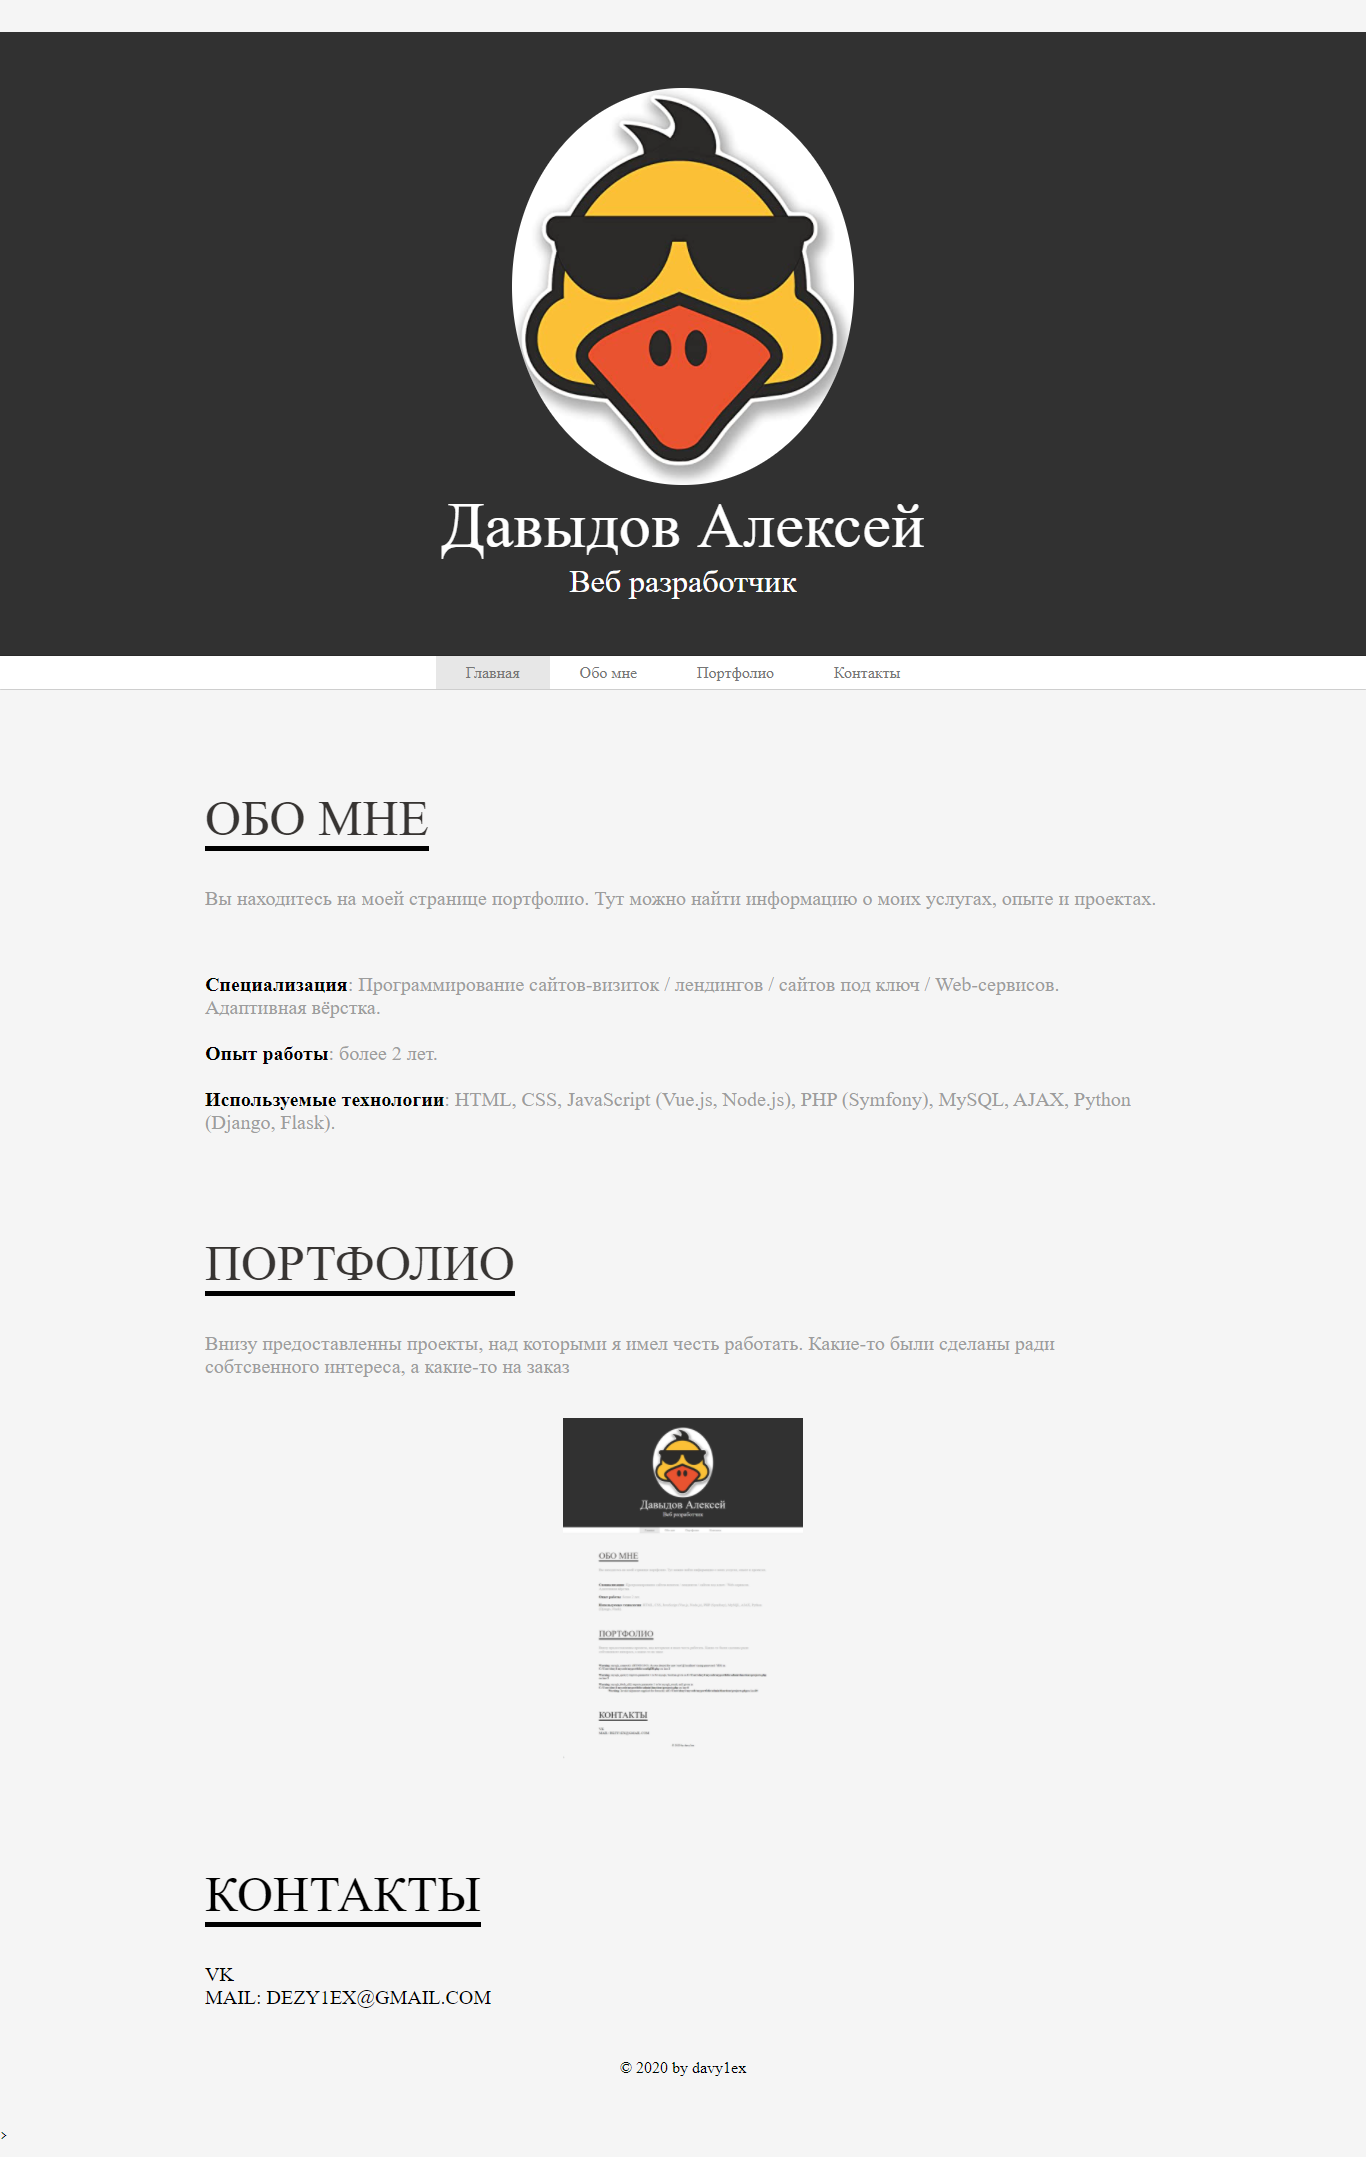
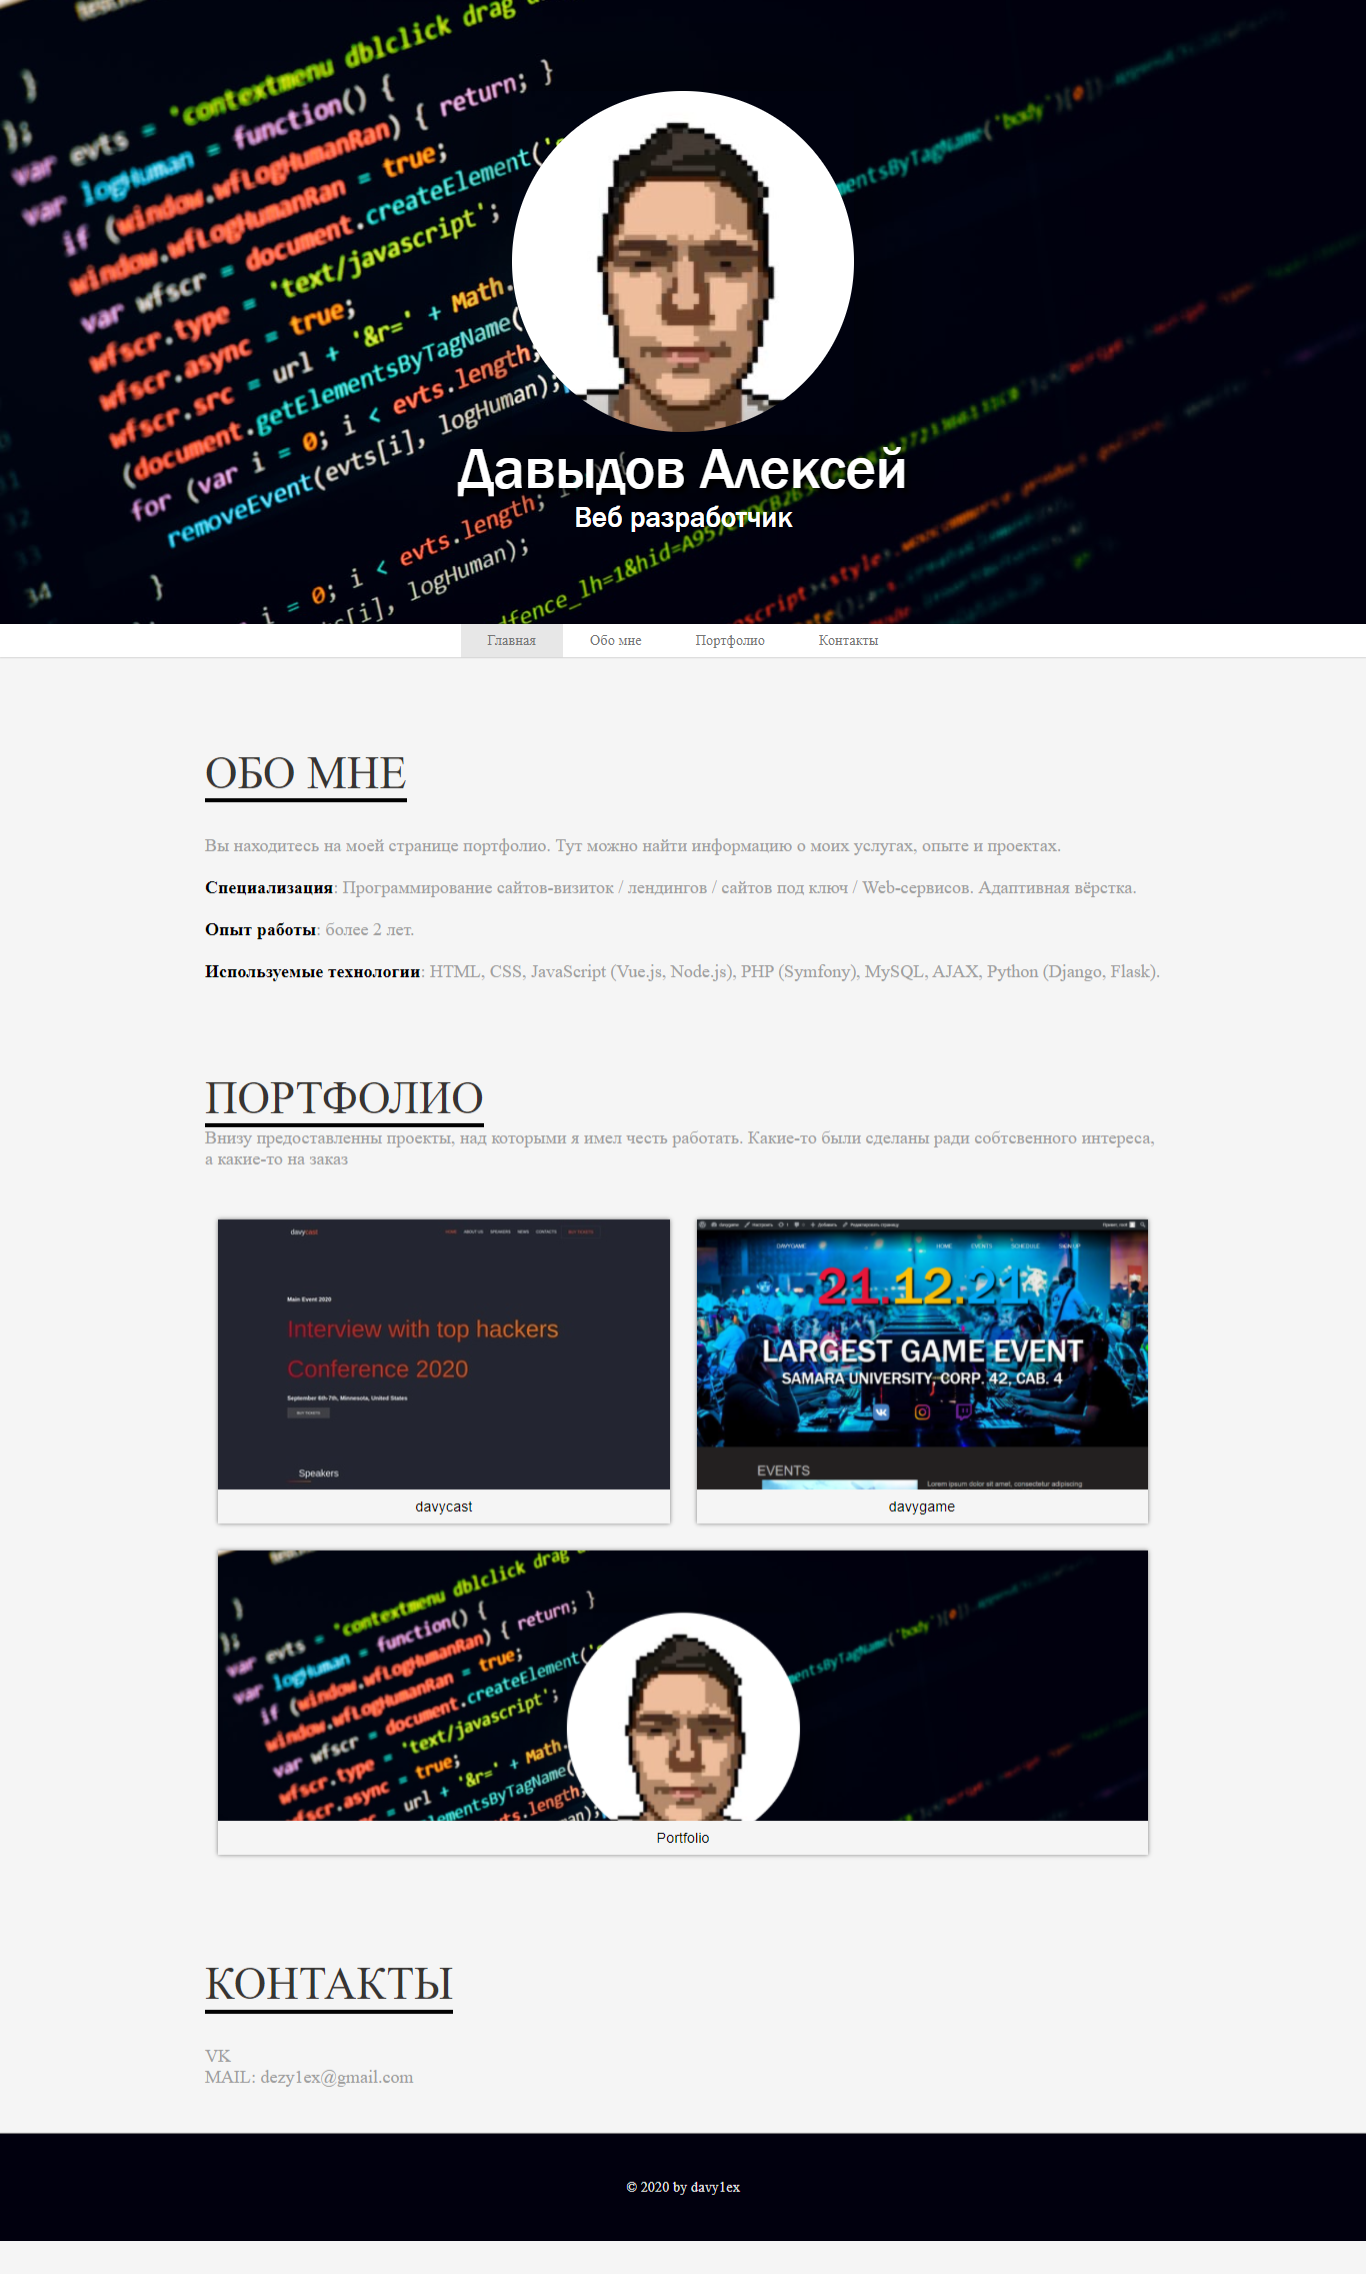
added new point

diff --git a/style.css b/style.css
@@ -29,13 +29,22 @@ body {
     height: 100vh;
 } */
 
-.mynameis {
+.mynameis { 
     height: 95vh;
-    background: #313131;
+    /* background: #313131; */
+
+    font-family: 'Franklin Gothic Medium', 'Arial Narrow', Arial, sans-serif;
+
+    background-repeat: no-repeat;
+    background-position: center;
+    background-size: cover;
+
     display: flex;
     justify-content: center;
     align-items: center;
     color: white;
+
+    margin-top: 0 !important;
 }
 
 .mynameis_wrapper {
@@ -47,12 +56,18 @@ body {
     flex-direction: column;
 }
 
+.avatar {
+    box-shadow: 0 0 100px rgba(0,0,0,0.5);
+}
+
 .avatar img {
     width: 25vw;
     border-radius: 100%;
 }
 
 .myname {
+    text-shadow: 5px 5px 5px black, 0 0 1em black;
+
     font-size: 4em;
     text-align: center;
 }
@@ -119,7 +134,7 @@ header a, header a:visited, header a:active {
 /* HEADER */
 
 
-.desc {
+.container {
     width: 70%;
     margin: auto;
     padding-top: 100px;
@@ -151,9 +166,10 @@ header a, header a:visited, header a:active {
 /* PROJECTS_CELL */
 .projects {
     display: flex;
-    flex-wrap: wrap;
-    justify-content: center;
-    align-items: center;
+    flex-flow: row wrap;
+    /* justify-content: flex-start; */
+    align-items: flex-start;
+    align-content: space-around;
     width: 100%;
 }
 
@@ -162,17 +178,49 @@ header a, header a:visited, header a:active {
 }
 
 .project {
-    width: 25%;
+    /* flex-basis: 30% ; */
+    /* box-sizing: border-box; */
+    
+
+    display: flex;
+    flex-direction: column;
+    margin: 15px;
+    flex-basis: 30%;
+    flex: 4 4 40%;
+    order: 3;
+    /* align-self: baseline; */
+    /* height: 400px; */
+
+    /* border: 1px solid lavender; */
+    box-shadow: 0 0 5px rgba(0,0,0,0.5);
 }
 
-.project img {
+.project .image_preview {
+    background-repeat: no-repeat;
+    background-position: top;
+    background-size: cover;
+
     width: 100%;
+    min-height: 300px;
+    max-height: 100%;
+    /* padding-bottom: 20px; */
+    /* height: 350px; */
+}
+
+.project-title {
+    font-family: 'Noto Sans JP', sans-serif;
+    padding: 10px 0;
+    text-align: center;
 }
 
 /* PROJECTS_CELL */
 
 
 footer {
+    background-color: #01000e;
+    border-top: 1px solid gray;
+    margin-top: 50px;
+    color: #E7E7E7;
     text-align: center;
     padding: 50px 0;
 }

diff --git a/index.php b/index.php
@@ -1,51 +1,82 @@
-<?php get_header();?>
+<?php get_header(); ?>
 
-<? $pages = get_pages(); 
-foreach ($pages as $page_data) {
-    $content = apply_filters('the_content', $page_data->post_content); 
-    $title = $page_data->post_title; 
-    echo 
-    '<div class="container content desc">' . 
-        '<div class="title">' .
-            '<span class="line">' . $title . '</span>' .
-        '</div>' .
-        '<div class="text">' . 
-            $content . 
-        '</div>' .
-    '</div>';
-} ?>
+<? //$pages = get_pages(); 
+// foreach ($pages as $page_data) {
+    // $content = apply_filters('the_content', $page_data->post_content); 
+    // $title = $page_data->post_title; 
+    // echo 
+    // '<div class="container content desc">' . 
+        // '<div class="title">' .
+            // '<span class="line">' . $title . '</span>' .
+        // '</div>' .
+        // '<div class="text">' . 
+            // $content . 
+        // '</div>' .
+    // '</div>';
+//} ?>
 
-
-<!-- <a name="about_me">
+<a name="about_me">
     <div class="container content desc">
         <div class="title">
             <span class="line">Обо мне</span>
         </div>
 
         <div class="text">
-            Вы находитесь на моей странице портфолио. Тут можно найти информацию о моих услугах, опыте и проектах.
-        </div>
-
-        <div class="text">
-            <br><strong>Специализация</strong>: Программирование сайтов-визиток / лендингов / сайтов под ключ / Web-сервисов. Адаптивная вёрстка. <br> <br>
-            <strong>Опыт работы</strong>: более 2 лет. <br> <br>
-            <strong>Используемые технологии</strong>: HTML, CSS, JavaScript (Vue.js, Node.js), PHP (Symfony), MySQL, AJAX, Python (Django, Flask).
+            <?php the_field('about_me') ?>
         </div>
     </div>
-</a> -->
+</a>
 
 
 
-<!-- <a name="contacts">
+<a name="portfolio">
+        <div class="container content portfolio desc">
+
+                <div class="title">
+                    <span class="line">Портфолио</span>
+                </div>
+
+                <div class="text">
+                    Внизу предоставленны проекты, над которыми я имел честь работать. Какие-то были сделаны ради собтсвенного интереса, а какие-то на заказ
+                </div>
+                <div class="projects">
+                    <?
+                    $params = array(
+                        'limit' => -1 
+                        // 'page' => , 
+                        
+                    );
+                    $mypod = pods( 'portfolio', $params );
+
+                    // Loop through the records returned
+                    while ( $mypod->fetch() ) {
+                        echo                         
+                            '<div class="project"> 
+                                <div class="image_preview" style="background-image: url(' . $mypod->display( 'preview_image' ) . ')"> </div>' .
+                                '<div class="project-title">' . $mypod->display( 'project_title' ) . '</div>
+                            </div>'
+                            
+                        ;
+                    }
+                    ?>
+                </div>
+
+                    
+
+        </div>
+    </a>
+
+
+
+<a name="contacts">
     <div class="container desc contacts">
         <div class="title">
-            <span class="line">Контакты</span>
+            <span class="line">Контакты</span></div>
 
             <div class="text">
-                <a href="https://vk.com/richlex">VK</a> <br>
-                <a href="vk.com/richlex">MAIL: dezy1ex@gmail.com</a>
+                <?php the_field('contacts') ?>
             </div>
-        </div>
+        
     </div>
-</a> -->
+</a>
     <?php get_footer(); ?>

diff --git a/header.php b/header.php
@@ -4,29 +4,15 @@
     <meta charset="UTF-8">
     <meta name="viewport" content="width=device-width, initial-scale=1.0">
     
-    <link rel="shortcut icon" href="<?php bloginfo('stylesheet_directory'); ?>/images/avatar.jpg" type="image/jpg">
-    <title><?php wp_title('&laquo;', true, 'right'); ?> <?php bloginfo('name'); ?></title>
-
-
-
-    <!-- <link rel="stylesheet" href="css/style.css">
-    <link rel="stylesheet" href="css/index.css"> -->
-
-    <link rel="stylesheet" href="<?php bloginfo('stylesheet_directory'); ?>/style.css" />
-
-
-    <script src="<?php bloginfo('stylesheet_directory'); ?>/js/jquery.js"></script>>
-    <script src="<?php bloginfo('stylesheet_directory'); ?>/js/live.js"></script>
-
-
-    <?php wp_head(); ?>
+    
 </head>
 <body>
     <a name="main">
-        <div class="container mynameis">
+        <div class="mynameis" style="background-image: url(<?php the_field( 'banner' ) ?>)">
             <div class="mynameis_wrapper">
                 <div class="avatar">
-                    <img src="<?php bloginfo('stylesheet_directory'); ?>/images/avatar.jpg" alt="">
+                    <img src=<?php the_field( 'avatar' ) ?> alt="">
+                    <!-- <img src=<?php the_field( 'avatar' ) ?> alt=""> -->
                 </div>
                 <!-- <div class="title">davy1ex</div> -->
                 <div class="myname">Давыдов Алексей</div>
@@ -49,3 +35,4 @@
             <div class="header_item icon"><a href="#contacts"><img class="header_img" src="<?php bloginfo('stylesheet_directory'); ?>/images/icons/email.svg" alt=""><div class="header_text">Контакты</div></a></div>
         </div>
     </header>
+<?php wp_head(); ?>

diff --git a/functions.php b/functions.php
@@ -1,5 +1,17 @@
 <?
 
+add_action( 'wp_enqueue_scripts', 'mywpportfoliotheme_scripts' );
+
+function mywpportfoliotheme_scripts() {
+  wp_enqueue_script( 'script-name', get_template_directory_uri() . '/assets/js/jquery.js');
+    wp_enqueue_style( 'style-name', get_stylesheet_uri('style.css') );    
+    wp_enqueue_style( 'style-name', 'https://fonts.gstatic.com');
+    wp_enqueue_style( 'style-name', 'https://fonts.googleapis.com/css2?family=Lato&family=Roboto:wght@700&display=swap');
+    wp_enqueue_style( 'style-name', 'https://fonts.googleapis.com/css2?family=Noto+Sans+JP:wght@100&family=Open+Sans:wght@300&display=swap'); 
+
+    
+    
+}
 
 function catch_that_image() {
     global $post, $posts;

diff --git a/footer.php b/footer.php
@@ -1,6 +1,6 @@
 <footer>© 2020 by davy1ex</footer>
 
 
-    <script src="<?php bloginfo('stylesheet_directory'); ?>/js/index.js"></script>
+    <script src="<?php bloginfo('stylesheet_directory'); ?>/assets/js/index.js"></script>
 </body>
 </html>
